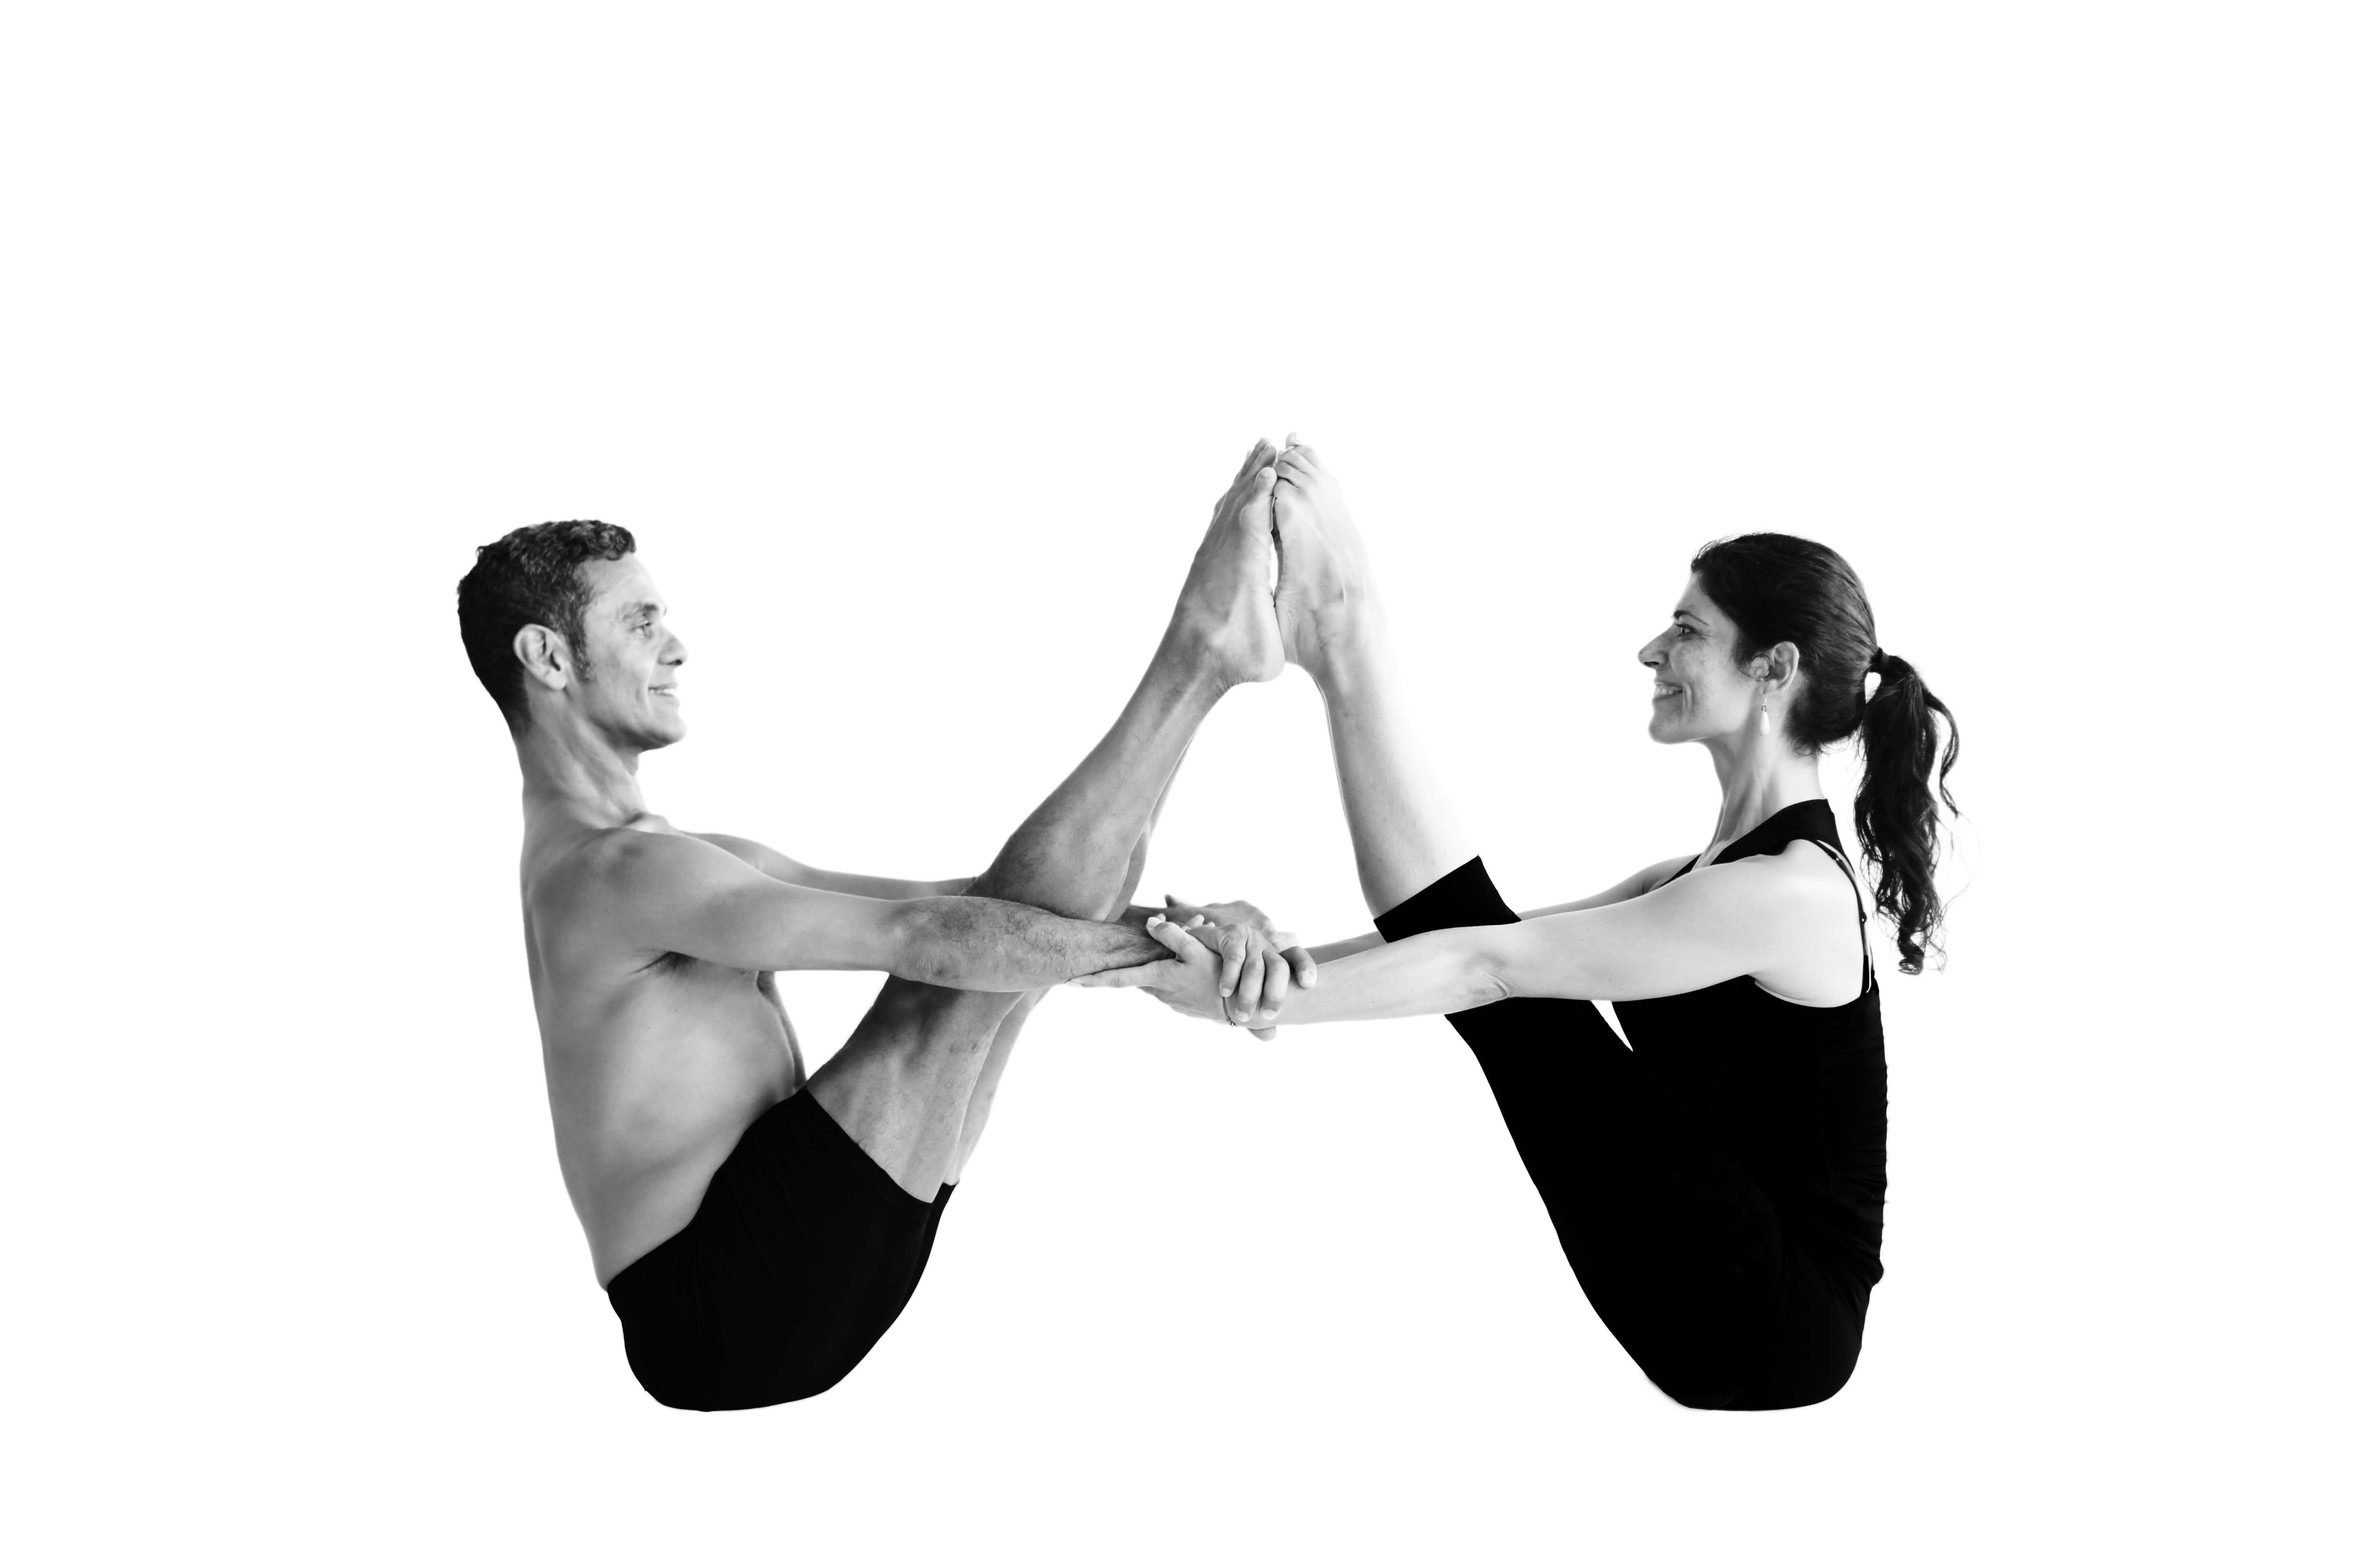
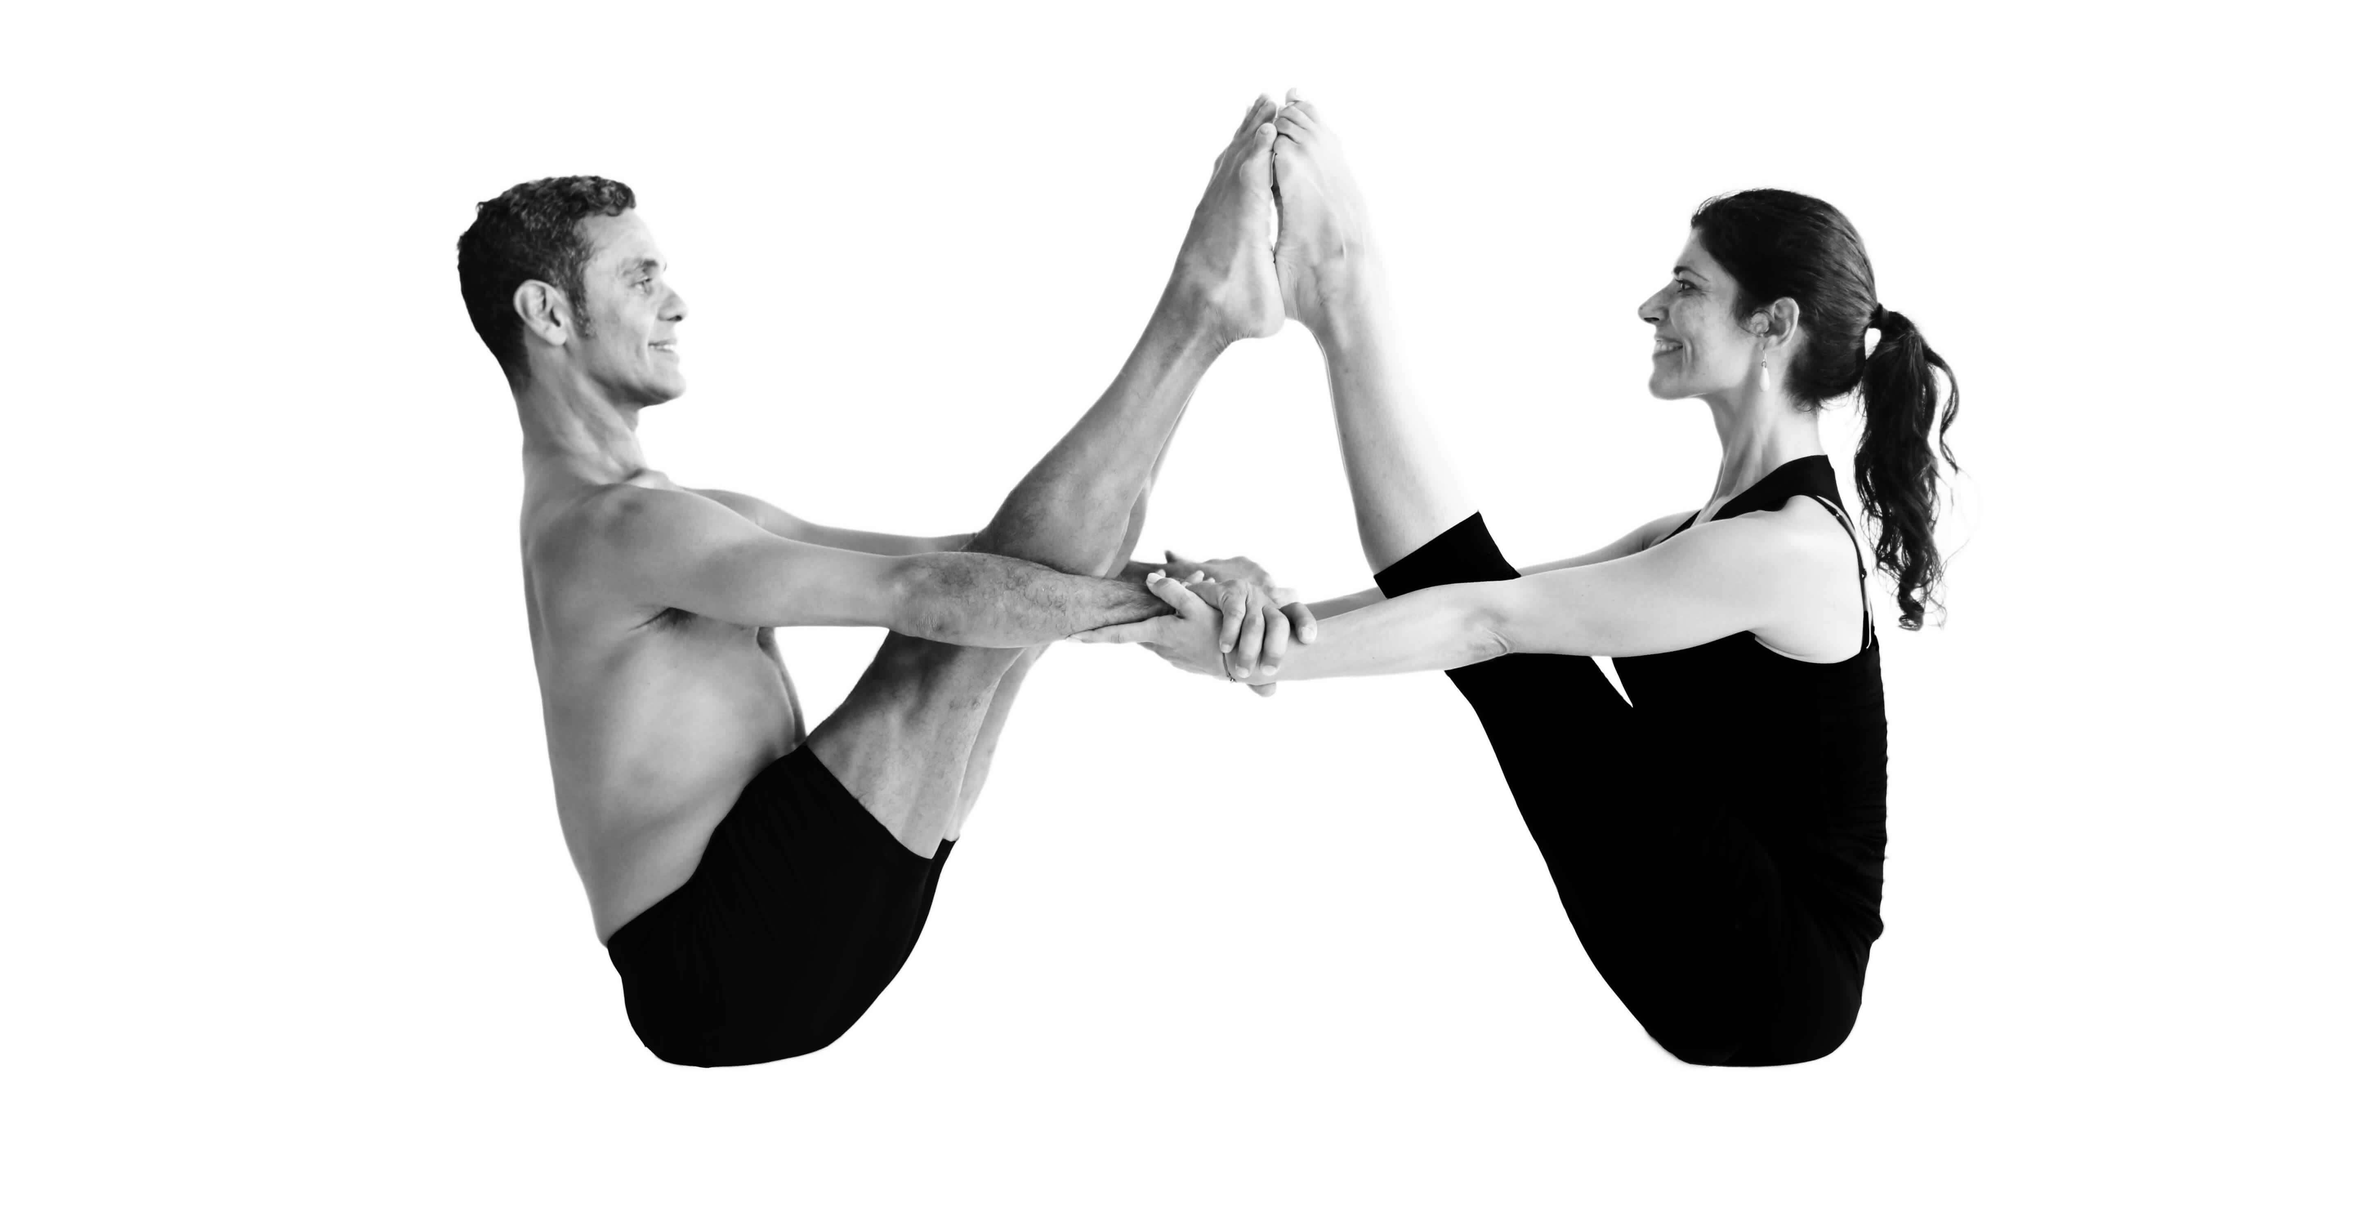
responsive layout and profesionals page

Changed region(s): [[0.1875, 0.0621, 0.8438, 0.8999], [0.7812, 0.7447, 0.8125, 0.8689]]

diff --git a/website/templates/profesionales.html b/website/templates/profesionales.html
@@ -1,0 +1,71 @@
+{% extends 'base.html' %}
+{% load staticfiles %}
+
+{% block head %}
+	<!--[if lt IE 9]>
+		<script src="//cdnjs.cloudflare.com/ajax/libs/respond.js/1.4.2/respond.min.js" type="text/javascript"></script>
+	<![endif]-->
+	<link rel="stylesheet" href="{% static "js/jsOnlyLightbox/css/lightbox.css" %}">
+{% endblock %}
+
+{% block content %}
+<section class="content training profesionals">
+	<div class="container">
+		<div class="two-col">
+			<h2 class="title">PROFESIONALES CERTIFICADOS</h2>
+			<ul class="names">
+				<li>- Maria Celeste Restovich</li>
+				<li>- Carla Silvina Bergami</li>
+				<li>- Verónica Carolina Domínguez</li>
+				<li>- David Fernando Walter</li>
+				<li>- Fernando Damián Pérez</li>
+				<li>- Ines Castellano</li>
+				<li>- Maria Laura Ametller</li>
+				<li>- Santos Patricio Dominé</li>
+			</ul>
+		</div><!--
+		--><div class="two-col">
+			<ul class="gallery">
+				<li class="single">
+					<figure>
+						<a href="{% static "img/gallery/11.jpg" %}" data-jslghtbx="{% static "img/gallery/11.jpg" %}" data-jslghtbx-group="mygroup1"><img src="{% static "img/gallery/mini/11.jpg" %}" alt=""></a>
+					</figure>
+				</li><!--
+				--><li class="single">
+					<figure>
+						<a href="{% static "img/gallery/4.jpg" %}" data-jslghtbx="{% static "img/gallery/4.jpg" %}" data-jslghtbx-group="mygroup1"><img src="{% static "img/gallery/mini/4.jpg" %}" alt=""></a>
+					</figure>
+				</li><!--
+				--><li class="single">
+					<figure>
+						<a href="{% static "img/gallery/2.jpg" %}" data-jslghtbx="{% static "img/gallery/2.jpg" %}" data-jslghtbx-group="mygroup1"><img src="{% static "img/gallery/mini/2.jpg" %}" alt=""></a>
+					</figure>
+				</li><!--
+				--><li class="double">
+					<figure>
+						<a href="{% static "img/gallery/3.jpg" %}" data-jslghtbx="{% static "img/gallery/3.jpg" %}" data-jslghtbx-group="mygroup1"><img src="{% static "img/gallery/mini/3.jpg" %}" alt=""></a>
+					</figure>
+				</li><!--
+				--><li class="single">
+					<figure>
+						<a href="{% static "img/gallery/9.jpg" %}" data-jslghtbx="{% static "img/gallery/9.jpg" %}" data-jslghtbx-group="mygroup1"><img src="{% static "img/gallery/mini/9.jpg" %}" alt=""></a>
+					</figure>
+				</li>
+			</ul>
+		</div>
+	</div>
+</section>
+{% endblock %}
+
+{% block messages %}
+<p>la gente demanda tomar éstas clases</p>
+<p>Excelente resultado</p>
+{% endblock %}
+
+{% block closescripts %}
+	<script src="{% static "js/jsOnlyLightbox/js/lightbox.min.js" %}" type="text/javascript"></script>
+	<script>
+		var lightbox = new Lightbox();
+		lightbox.load();
+	</script>
+{% endblock %}

diff --git a/website/static/css/styles.css b/website/static/css/styles.css
@@ -180,6 +180,9 @@ nav .burguer span {
 .training .page .pagefour p:nth-child(3) {
   font-style: italic;
 }
+.training.profesionals .title {
+  font-size: 1.5em;
+}
 .events h2 {
   font-size: 2.2em;
 }
@@ -250,8 +253,8 @@ body {
 body:not(.centro-entrenamiento) {
   background-image: url("../img/background.jpg");
   background-repeat: no-repeat;
-  background-position: center center;
-  background-size: 240% auto;
+  background-position: center top;
+  background-size: 250% auto;
 }
 a {
   text-decoration: none;
@@ -293,7 +296,7 @@ ul li {
   text-align: center;
 }
 #top-content div:nth-child(2) a {
-  color: #97be0c;
+  color: #e5408c;
 }
 @media only screen and (max-width: 450px) {
   #top-content div:nth-child(2) a {
@@ -354,7 +357,7 @@ ul li {
 }
 .facebook {
   position: absolute;
-  top: 0;
+  top: 1em;
   right: 1em;
 }
 @media only screen and (max-width: 450px) {
@@ -481,7 +484,7 @@ nav ul li ul li {
   display: block;
   margin: 0;
   text-align: left;
-  width: 150%;
+  width: 240%;
   z-index: 999;
 }
 @media only screen and (max-width: 830px) {
@@ -817,6 +820,7 @@ nav.open .burguer .close-icon {
 .training {
   box-sizing: border-box;
   display: block;
+  overflow: hidden;
   padding: 0;
   position: relative;
 }
@@ -1009,6 +1013,46 @@ nav.open .burguer .close-icon {
   bottom: 2em;
   position: absolute;
   right: 3em;
+}
+.profesionals {
+  padding: 2em 3em;
+}
+.profesionals .two-col {
+  display: inline-block;
+  vertical-align: top;
+  width: 50%;
+}
+.profesionals .two-col .title {
+  color: #6f7072;
+}
+.profesionals .two-col .names {
+  margin-top: 2em;
+}
+.profesionals .two-col .names li {
+  color: #00632e;
+}
+@media only screen and (max-width: 720px) {
+  .profesionals .two-col {
+    width: 100%;
+  }
+}
+.profesionals .two-col:nth-child(2) {
+  margin-top: 3em;
+}
+.profesionals .gallery {
+  -webkit-column-count: 2;
+     -moz-column-count: 2;
+          column-count: 2;
+  -webkit-column-gap: 0;
+     -moz-column-gap: 0;
+          column-gap: 0;
+}
+@media only screen and (max-width: 460px) {
+  .profesionals .gallery {
+    -webkit-column-count: 1;
+       -moz-column-count: 1;
+            column-count: 1;
+  }
 }
 .events h2 {
   color: #00632e;

diff --git a/website/templates/base.html b/website/templates/base.html
@@ -33,7 +33,7 @@
 						<span>JOHANA DOMINÉ</span>
 					</p>
 				</h1>
-				<a href="#" class="facebook"><img src="{% static "img/fb_logo.png" %}" alt="Visita nuestra Fan Page!"></a>
+				<a href="#" class="facebook"><img src="{% static "img/fb_pink.png" %}" alt="Visita nuestra Fan Page!"></a>
 			</div>
 			<nav>
 				<span class="burguer">
@@ -50,7 +50,7 @@
 								<li><a href="/capacitaciones/ppg/"><i class="fa fa-caret-right" aria-hidden="true"></i> PPG</a></li><!--
 								--><li><a href="/capacitaciones/pactivo/"><i class="fa fa-caret-right" aria-hidden="true"></i> PILATES ACTIVO</a></li><!--
 								--><li><a href="/capacitaciones/kstretch/"><i class="fa fa-caret-right" aria-hidden="true"></i> K-STRETCH</a></li><!--
-								--><!--<li><a href="#">PROFESIONALES CERTIFICADOS</a></li>-->
+								--><li><a href="/capacitaciones/profesionales/"><i class="fa fa-caret-right" aria-hidden="true"></i> PROFESIONALES CERTIFICADOS</a></li>
 							</ul>
 						</li><!--
 					--><li><a href="/eventos/">EVENTOS</a></li><!--

diff --git a/website/templates/pactivo.html b/website/templates/pactivo.html
@@ -3,10 +3,12 @@
 
 {% block content %}
 <section class="content training pactivo">
-	<article>
-		<h2 class="title">PACTIVO</h2>
-		<h3 class="copy">Método de Reequilibrio y Reeducación Postural</h3>
-	</article>
+	<div class="container">
+		<article>
+			<h2 class="title">PACTIVO</h2>
+			<h3 class="copy">Método de Reequilibrio y Reeducación Postural</h3>
+		</article>
+	</div>
 </section>
 {% endblock %}
 

diff --git a/domine/urls.py b/domine/urls.py
@@ -27,6 +27,7 @@ urlpatterns = [
     url(r'^capacitaciones/ppg/$', views.ppg, name='ppg'),
     url(r'^capacitaciones/pactivo/$', views.pactivo, name='pactivo'),
     url(r'^capacitaciones/kstretch/$', views.kstretch, name='kstretch'),
+    url(r'^capacitaciones/profesionales/$', views.profesionales, name='profesionales'),
     url(r'^eventos/$', views.events, name='eventos'),
     url(r'^galeria/$', views.gallery, name='galeria'),
     url(r'^contacto/$', views.ContactFormView.as_view(), name='contacto'),

diff --git a/website/views.py b/website/views.py
@@ -20,6 +20,9 @@ def pactivo(request):
 def kstretch(request):
 	return render(request, 'kstretch.html')
 
+def profesionales(request):
+	return render(request, 'profesionales.html')
+
 def events(request):
 	eventos = Evento.objects.all()
 	return render(request, 'eventos.html',{'eventos':eventos})
